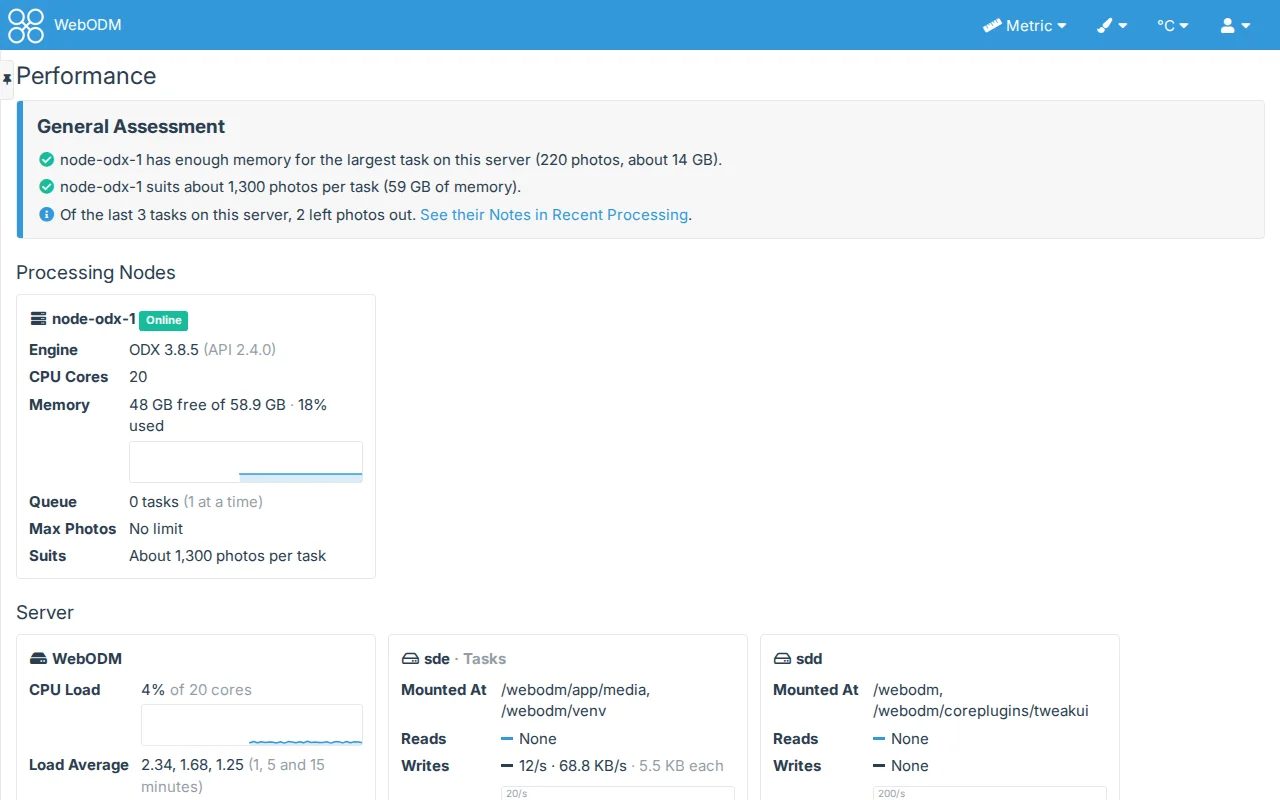
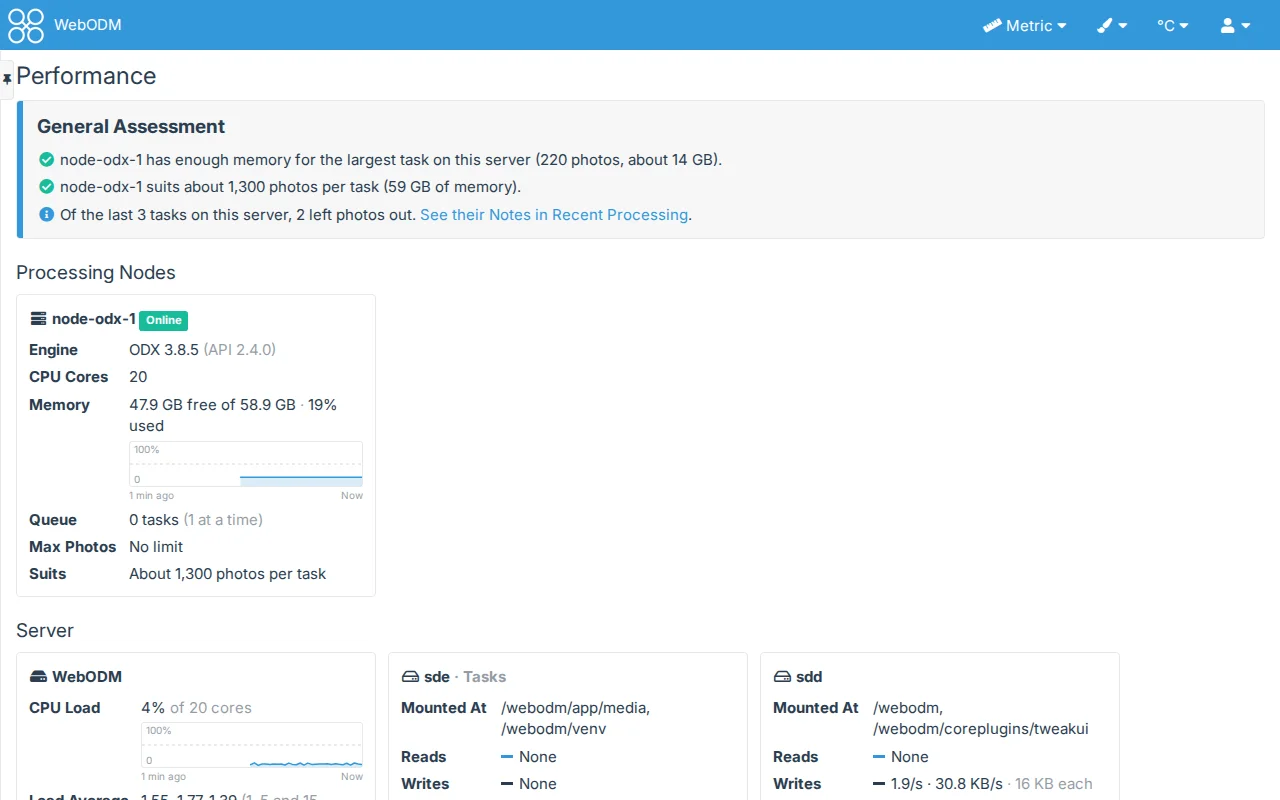
Performance View: the graphs' scales, time lines and legends, 10% taller
Each graph shows its scale inside it (its top, 0 and a dotted line at half height), a time line under it from
the window's start (following History Length) to Now, and a legend for a drive's reads and writes, all hidden
from screen readers as the drawing is. The graphs go from 42 to 46 px. Docs, CHANGELOG and the performance
screenshot updated.

diff --git a/tweakui/public/__tests__/performance_page.test.js b/tweakui/public/__tests__/performance_page.test.js
@@ -80,10 +80,14 @@ async function started(answers, every, history) {
 }
 
 const flush = () => new Promise(r => setTimeout(r, 0));
-// Each element's text nodes joined with spaces, as the page reads (jsdom has no innerText)
+// Each element's text nodes joined with spaces, as the page reads (jsdom has no innerText), without what is hidden
+// from screen readers (a graph's scale, time line and legend)
 function words(e) {
     const walker = document.createTreeWalker(e, NodeFilter.SHOW_TEXT), out = [];
-    while (walker.nextNode()) out.push(walker.currentNode.nodeValue);
+    while (walker.nextNode()) {
+        const parent = walker.currentNode.parentElement;
+        if (!(parent && parent.closest("[aria-hidden=true]"))) out.push(walker.currentNode.nodeValue);
+    }
     return out.join(" ").replace(/\s+/g, " ").trim();
 }
 const texts = (root, selector) => Array.from(root.querySelectorAll(selector)).map(words);
@@ -528,13 +532,36 @@ describe("the Performance page", () => {
         const div = document.createElement("div");
         div.innerHTML = performancePage.graphHtml(view, "cpu", [{key: "cpu"}], "percent");
         const paths = Array.from(div.querySelectorAll("path:not(.tweakui-performance-graph-area)")).map(p => p.getAttribute("d"));
-        // A percent graph from 0 (the bottom, 39) to 100% (the top, 1); the reading after a minute's gap is a run of its own
-        expect(paths).toEqual(["M0.0 39.0 L5.0 20.0 L10.0 1.0", "M300.0 29.5 h0"]);
+        // A percent graph from 0 (the bottom, 43) to 100% (the top, 1); the reading after a minute's gap is a run of its own
+        expect(paths).toEqual(["M0.0 43.0 L5.0 22.0 L10.0 1.0", "M300.0 32.5 h0"]);
         expect(div.querySelectorAll(".tweakui-performance-graph-area")).toHaveLength(1);
-        expect(div.querySelector(".tweakui-performance-graph-max")).toBeNull();
         expect(performancePage.niceCeil(0)).toBe(1);
         expect(performancePage.niceCeil(130)).toBe(200);
         expect(performancePage.niceCeil(4200)).toBe(5000);
+    });
+
+    test("a graph's scale is inside it, its time line under it follows History Length, and two lines get a legend", () => {
+        const div = document.createElement("div");
+        const percent = {history: {cpu: [[0, 0.2]]}, now: 300000, span: 300000, gap: 15000};
+        div.innerHTML = performancePage.graphHtml(percent, "cpu", [{key: "cpu"}], "percent");
+        expect([div.querySelector(".tweakui-performance-graph-max").textContent, div.querySelector(".tweakui-performance-graph-zero").textContent])
+            .toEqual(["100%", "0"]);
+        expect(div.querySelector("line.tweakui-performance-graph-grid").getAttribute("y1")).toBe("22");
+        expect(Array.from(div.querySelectorAll(".tweakui-performance-graph-axis span")).map(e => e.textContent)).toEqual(["5 min ago", "Now"]);
+        expect(div.querySelector(".tweakui-performance-graph-legend")).toBeNull();
+        div.innerHTML = performancePage.graphHtml(Object.assign({}, percent, {span: 30 * 60000}), "cpu", [{key: "cpu"}], "percent");
+        expect(div.querySelector(".tweakui-performance-graph-axis span").textContent).toBe("30 min ago");
+        // A rate graph shows its top only once it has readings; its two lines are named under it in their colours
+        const rate = {history: {r: [[0, 3]]}, now: 60000, span: 60000, gap: 15000};
+        div.innerHTML = performancePage.graphHtml({history: {}, now: 0, span: 60000, gap: 1}, "ops", [{key: "r", label: "Reads"}, {key: "w", label: "Writes"}], "rate");
+        expect(div.querySelector(".tweakui-performance-graph-max")).toBeNull();
+        div.innerHTML = performancePage.graphHtml(rate, "ops", [{key: "r", label: "Reads"}, {key: "w", label: "Writes"}], "rate");
+        expect(div.querySelector(".tweakui-performance-graph-max").textContent).toBe("5/s");
+        expect(Array.from(div.querySelectorAll(".tweakui-performance-graph-legend span")).map(e => [e.textContent.trim(), e.querySelector("i").className]))
+            .toEqual([["Reads (/s)", "tweakui-performance-graph-swatch tweakui-performance-accent"], ["Writes (/s)", "tweakui-performance-graph-swatch theme-color-primary"]]);
+        // Without a window yet (the page before its first reading), no time line
+        div.innerHTML = performancePage.graphHtml(null, "cpu", [{key: "cpu"}], "percent");
+        expect(div.querySelector(".tweakui-performance-graph-axis")).toBeNull();
     });
 
     test("a rate graph has two lines, the first in the theme's link colour and the second in its text colour, up to its highest reading", () => {
@@ -543,7 +570,7 @@ describe("the Performance page", () => {
         div.innerHTML = performancePage.graphHtml(view, "ops", [{key: "r", label: "Reads"}, {key: "w", label: "Writes"}], "rate");
         expect(Array.from(div.querySelectorAll("g")).map(g => g.getAttribute("class"))).toEqual(["tweakui-performance-accent", "theme-color-primary"]);
         expect(div.querySelector(".tweakui-performance-graph-max").textContent).toBe("200/s");
-        expect(div.querySelector("g:last-child path").getAttribute("d")).toBe("M150.0 37.1 L300.0 39.0");
+        expect(div.querySelector("g:last-child path").getAttribute("d")).toBe("M150.0 40.9 L300.0 43.0");
         expect(performancePage.graphTip(view, ["r", "w"], ["Reads", "Writes"], "rate", 2000))
             .toBe("Reads 130/s \u00b7 Writes 0/s \u00b7 " + new Date(3000).toLocaleTimeString());
         expect(performancePage.graphTip(view, ["r"], [""], "rate", 60000)).toBe("");

diff --git a/tweakui/public/performance_page.js b/tweakui/public/performance_page.js
@@ -28,7 +28,7 @@
     var EVERY_DEFAULT = 3, HISTORY_DEFAULT = 5;
     // The graphs: the readings kept (History Length's longest), the drawing's size (stretched to the card's width), and
     // a line broken where readings stopped for this many refreshes (the tab hidden), or at least this long
-    var HISTORY_KEEP = 30 * 60000, GRAPH_W = 300, GRAPH_H = 40, GAP_REFRESHES = 3, GAP_MIN = 15000;
+    var HISTORY_KEEP = 30 * 60000, GRAPH_W = 300, GRAPH_H = 44, GAP_REFRESHES = 3, GAP_MIN = 15000;
     // WebODM's unit system (Units.js): where it keeps it and the event it fires when it changes
     var UNIT_KEY = "unit_system", UNIT_EVENT = "onUnitSystemChanged";
     var FT = 3.28083989501, FT2_ACRE = 43560;
@@ -153,10 +153,18 @@
         return kind === "rate" ? formatRate(v) : percent(v);
     }
 
+    // How far back a graph's window starts, as its time line says: "5 min ago"
+    function spanText(ms) {
+        var minutes = Math.round(ms / 60000);
+        return minutes >= 1 ? formatNumber(minutes) + " min ago" : Math.round(ms / 1000) + " s ago";
+    }
+
     // A graph of one or two series over the last view.span ms (view: {history, now, span, gap}; none draws an empty
-    // one): the newest at the right, a percent graph from 0 to 100%, a rate graph up to its highest reading in the window
-    // (at its top left, once it has readings). The first series is in the theme's link colour (the bars' colour, start's
-    // accent) with a light fill under it, the second in its text colour. Hovering it shows the readings under the pointer (start's hover)
+    // one): the newest at the right, a percent graph from 0 to 100%, a rate graph up to its highest reading in the window.
+    // Its scale is inside it: the top (100%, or the rate's top once it has readings) at top left, 0 at bottom left and a
+    // faint line at half height; under it, its time line (the window's start, Now) and, for two series, a legend. The
+    // first series is in the theme's link colour (the bars' colour, start's accent) with a light fill under it, the
+    // second in its text colour. Hovering it shows the readings under the pointer (start's hover)
     function graphHtml(view, id, series, kind) {
         var from = view ? view.now - view.span : 0, span = view ? view.span : 1, gap = view ? view.gap : 0;
         var lists = series.map(function (s) { return view ? runs(view.history[s.key] || [], from, gap) : []; });
@@ -177,8 +185,18 @@
         return '<div class="tweakui-performance-graph theme-border" data-graph="' + escapeHtml(id) + '" data-kind="' + kind +
             '" data-series="' + escapeHtml(series.map(function (s) { return s.key; }).join(" ")) + '" data-labels="' +
             escapeHtml(series.map(function (s) { return s.label || ""; }).join("|")) + '">' +
-            (kind === "rate" && any ? '<span class="tweakui-performance-graph-max text-muted">' + escapeHtml(formatRate(max)) + "</span>" : "") +
-            '<svg viewBox="0 0 ' + GRAPH_W + " " + GRAPH_H + '" preserveAspectRatio="none" aria-hidden="true" focusable="false">' + paths + "</svg></div>";
+            (kind === "percent" || any ? '<span class="tweakui-performance-graph-max text-muted" aria-hidden="true">' +
+                escapeHtml(kind === "rate" ? formatRate(max) : "100%") + "</span>" : "") +
+            '<span class="tweakui-performance-graph-zero text-muted" aria-hidden="true">0</span>' +
+            '<svg viewBox="0 0 ' + GRAPH_W + " " + GRAPH_H + '" preserveAspectRatio="none" aria-hidden="true" focusable="false">' +
+            '<line class="tweakui-performance-graph-grid" x1="0" x2="' + GRAPH_W + '" y1="' + GRAPH_H / 2 + '" y2="' + GRAPH_H / 2 + '"></line>' +
+            paths + "</svg></div>" +
+            (view ? '<div class="tweakui-performance-graph-axis text-muted small" aria-hidden="true"><span>' + escapeHtml(spanText(span)) +
+                "</span><span>Now</span></div>" : "") +
+            (series.length > 1 ? '<div class="tweakui-performance-graph-legend small" aria-hidden="true">' + series.map(function (s, i) {
+                return '<span><i class="tweakui-performance-graph-swatch ' + (i === 0 ? "tweakui-performance-accent" : "theme-color-primary") +
+                    '" aria-hidden="true"></i> ' + escapeHtml((s.label || "") + (kind === "rate" ? " (/s)" : "")) + "</span>";
+            }).join("") + "</div>" : "");
     }
 
     // What a graph's hover says at time t: each series' reading nearest it (within view.gap), then the time; "" without
@@ -975,6 +993,6 @@
     return {start: start, formatBytes: formatBytes, formatDuration: formatDuration, formatNumber: formatNumber,
         trendText: trendText, assessmentHtml: assessmentHtml, tasksSummary: tasksSummary, formatArea: formatArea, formatLength: formatLength,
         tasksHtml: tasksHtml, notesHtml: notesHtml, removeQuestion: removeQuestion, nodeHtml: nodeHtml, barHtml: barHtml, cpuShares: cpuShares, cpuRows: cpuRows,
-        diskShares: diskShares, driveCardHtml: driveCardHtml, serverHtml: serverHtml, graphHtml: graphHtml, graphTip: graphTip,
+        diskShares: diskShares, driveCardHtml: driveCardHtml, serverHtml: serverHtml, graphHtml: graphHtml, graphTip: graphTip, spanText: spanText,
         record: record, niceCeil: niceCeil};
 });

diff --git a/tweakui/public/main.css b/tweakui/public/main.css
@@ -383,11 +383,18 @@ html.tweakui-dragging, html.tweakui-dragging * { user-select: none; }
 /* The live figures' graphs (inline SVG stretched to the card's width): lines in currentColor, the first series in the
    theme's link colour (read by performance_page.js), the second in its text colour, a light fill under the first;
    hovering shows a cursor and the readings under it */
-.tweakui-performance .tweakui-performance-graph { position: relative; height: 42px; margin: 4px 0 2px; border-width: 1px; border-style: solid; border-radius: 3px; touch-action: pan-y; }
+.tweakui-performance .tweakui-performance-graph { position: relative; height: 46px; margin: 4px 0 2px; border-width: 1px; border-style: solid; border-radius: 3px; touch-action: pan-y; }
 .tweakui-performance .tweakui-performance-graph svg { display: block; width: 100%; height: 100%; overflow: hidden; }
 .tweakui-performance .tweakui-performance-graph path { fill: none; stroke: currentColor; stroke-width: 1.5px; stroke-linejoin: round; stroke-linecap: round; vector-effect: non-scaling-stroke; }
 .tweakui-performance .tweakui-performance-graph path.tweakui-performance-graph-area { fill: currentColor; fill-opacity: 0.18; stroke: none; }
-.tweakui-performance .tweakui-performance-graph-max { position: absolute; top: 1px; left: 4px; font-size: 10px; line-height: 1; pointer-events: none; }
+.tweakui-performance .tweakui-performance-graph-max, .tweakui-performance .tweakui-performance-graph-zero { position: absolute; left: 4px; font-size: 10px; line-height: 1; pointer-events: none; }
+.tweakui-performance .tweakui-performance-graph-max { top: 2px; }
+.tweakui-performance .tweakui-performance-graph-zero { bottom: 2px; }
+.tweakui-performance .tweakui-performance-graph line.tweakui-performance-graph-grid { stroke: currentColor; stroke-opacity: 0.2; stroke-width: 1px; stroke-dasharray: 3 3; vector-effect: non-scaling-stroke; }
+/* Under a graph: its time line, then its legend (a swatch in each line's colour) */
+.tweakui-performance .tweakui-performance-graph-axis { display: flex; justify-content: space-between; font-size: 10px; line-height: 1.2; margin-bottom: 2px; }
+.tweakui-performance .tweakui-performance-graph-legend { display: flex; flex-wrap: wrap; gap: 2px 12px; font-size: 11px; }
+.tweakui-performance .tweakui-performance-graph-swatch { display: inline-block; width: 14px; height: 3px; vertical-align: middle; background-color: currentColor; }
 .tweakui-performance .tweakui-performance-graph-cursor { position: absolute; top: 0; bottom: 0; width: 0; border-left: 1px dashed currentColor; opacity: 0.6; pointer-events: none; }
 .tweakui-performance .tweakui-performance-graph-tip { position: absolute; bottom: calc(100% + 2px); z-index: 2; padding: 2px 6px; border-width: 1px; border-style: solid; border-radius: 3px; font-size: 11px; white-space: nowrap; pointer-events: none; }
 .tweakui-performance .tweakui-performance-accent { color: var(--tweakui-performance-accent, currentColor); }

diff --git a/docs/performance.md b/docs/performance.md
@@ -72,7 +72,7 @@ marked **Tasks**. Since the last refresh, each shows:
 
 - **Reads** and **Writes**: operations per second, bytes per second, and the average size of one.
 - A graph of the reads (in the theme's link colour) and the writes (in its text colour) per second, scaled to the
-  highest in its window (shown at its top left).
+  highest in its window (shown at its top left), with a legend under it naming each line.
 - **Busy**: the share of time the disk was working, with its graph; the figure turns to a warning colour past 80% and
   to danger past 95%. A disk that is always busy holds the processing up.
 - **Wait**: the average time an operation took, waiting included.
@@ -87,10 +87,13 @@ counts too.
 
 ### Graphs
 
-Each live figure has a graph of its readings since the page opened, the newest at the right, over the last
-[History Length](#history-length): CPU Load, the server's memory, each node's memory, and each drive's reads and writes
-and Busy. Percentages are drawn from 0 to 100%. Moving the pointer over a graph (or touching it on a phone) shows the
-readings under it and their time. The line breaks where readings stopped, as while the browser tab was hidden.
+Each live figure has a graph of its readings since the page opened, the newest at the right, over the last [History
+Length](#history-length): CPU Load, the server's memory, each node's memory, and each drive's reads and writes and
+Busy. Percentages are drawn from 0 to 100%. Each graph's scale is inside it, faint: its top (100%, or a drive's
+highest rate) at the top left, 0 at the bottom left and a dotted line at half height. Under it, its time line runs
+from the window's start ("5 min ago", following History Length) at the left to Now at the right. Moving the pointer
+over a graph (or touching it on a phone) shows the readings under it and their time. The line breaks where readings
+stopped, as while the browser tab was hidden.
 
 The page keeps the readings while it is open, up to 30 minutes of them, and **Refresh** keeps them; reloading the page
 starts again. Nothing is kept on the server, so the graphs start empty each time the page opens. A memory figure

diff --git a/CHANGELOG.md b/CHANGELOG.md
@@ -4,6 +4,9 @@
 
 ### Diagnostic
 
+- Performance View: each graph has its scale inside it (its top, 0, a line at half height), a time line under it
+  (from "5 min ago", following History Length, to Now) and, for a drive's reads and writes, a legend; the graphs are
+  10% taller.
 - Performance View: a **General Assessment** card at the top, its left edge in its most pressing line's colour, with
   the verdicts on memory and the nodes, a line summing up Recent Processing's failed tasks and photos left out, and
   the time-per-photo trend (moved up from Recent Processing).
